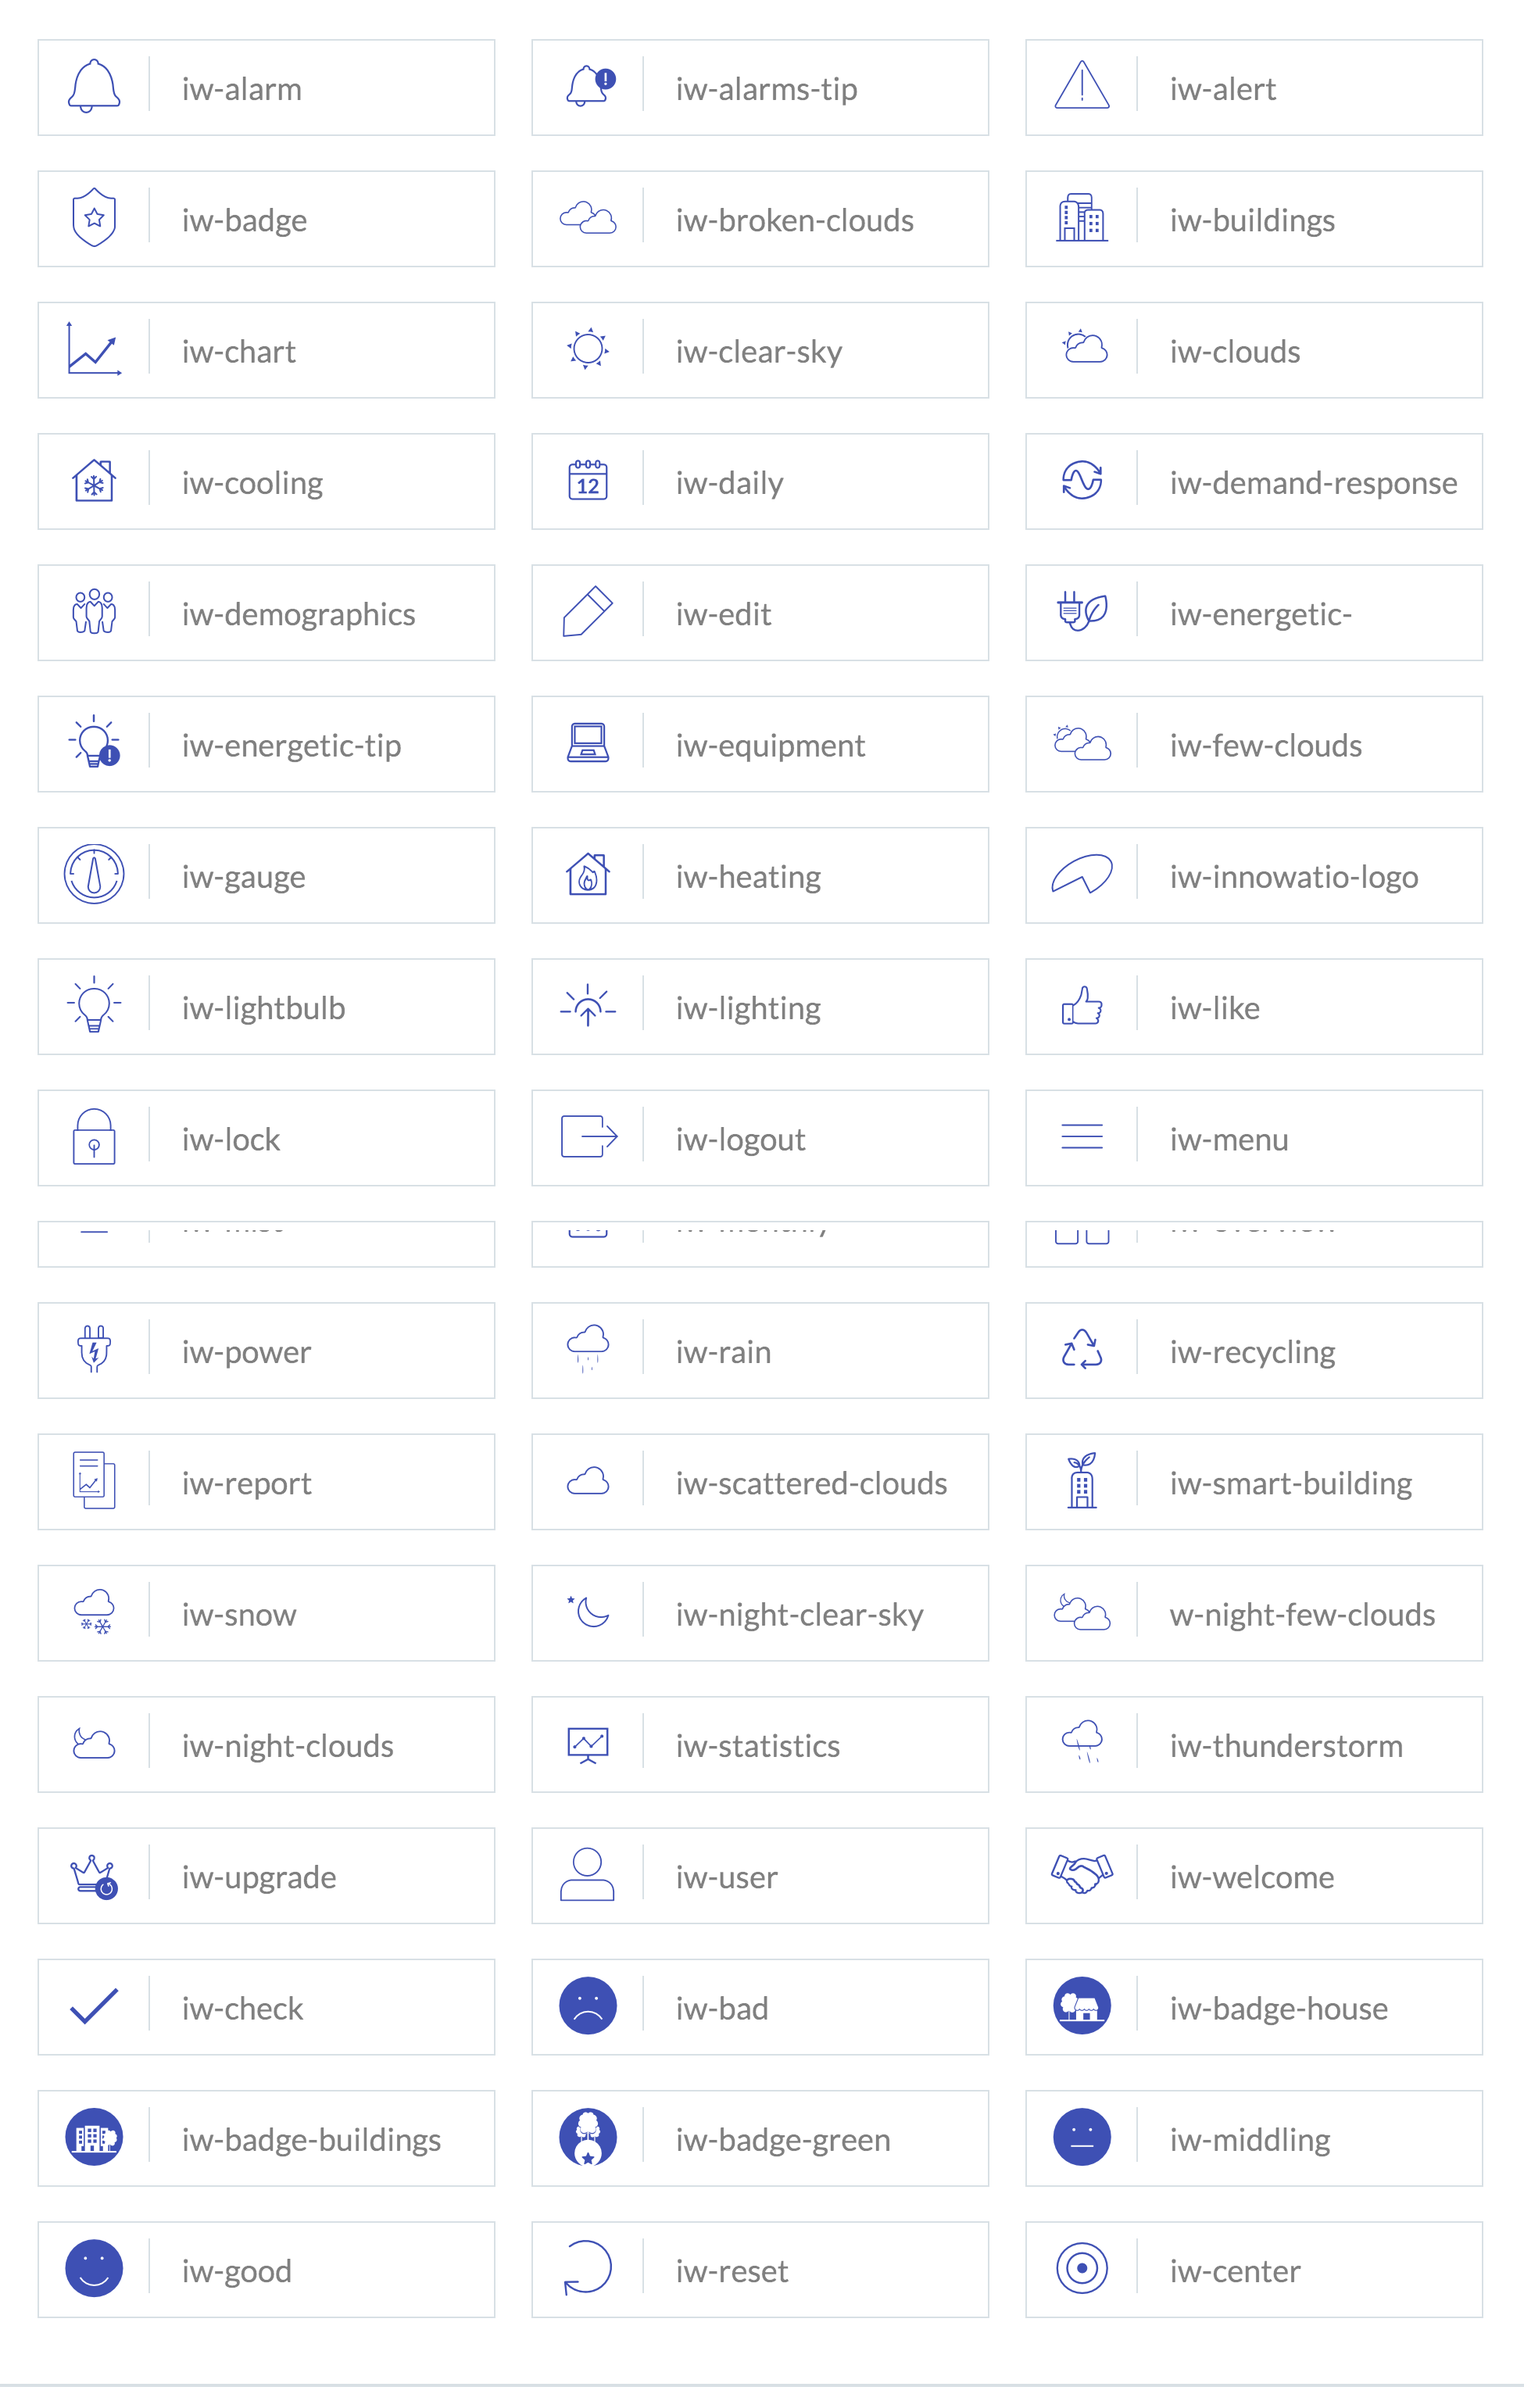
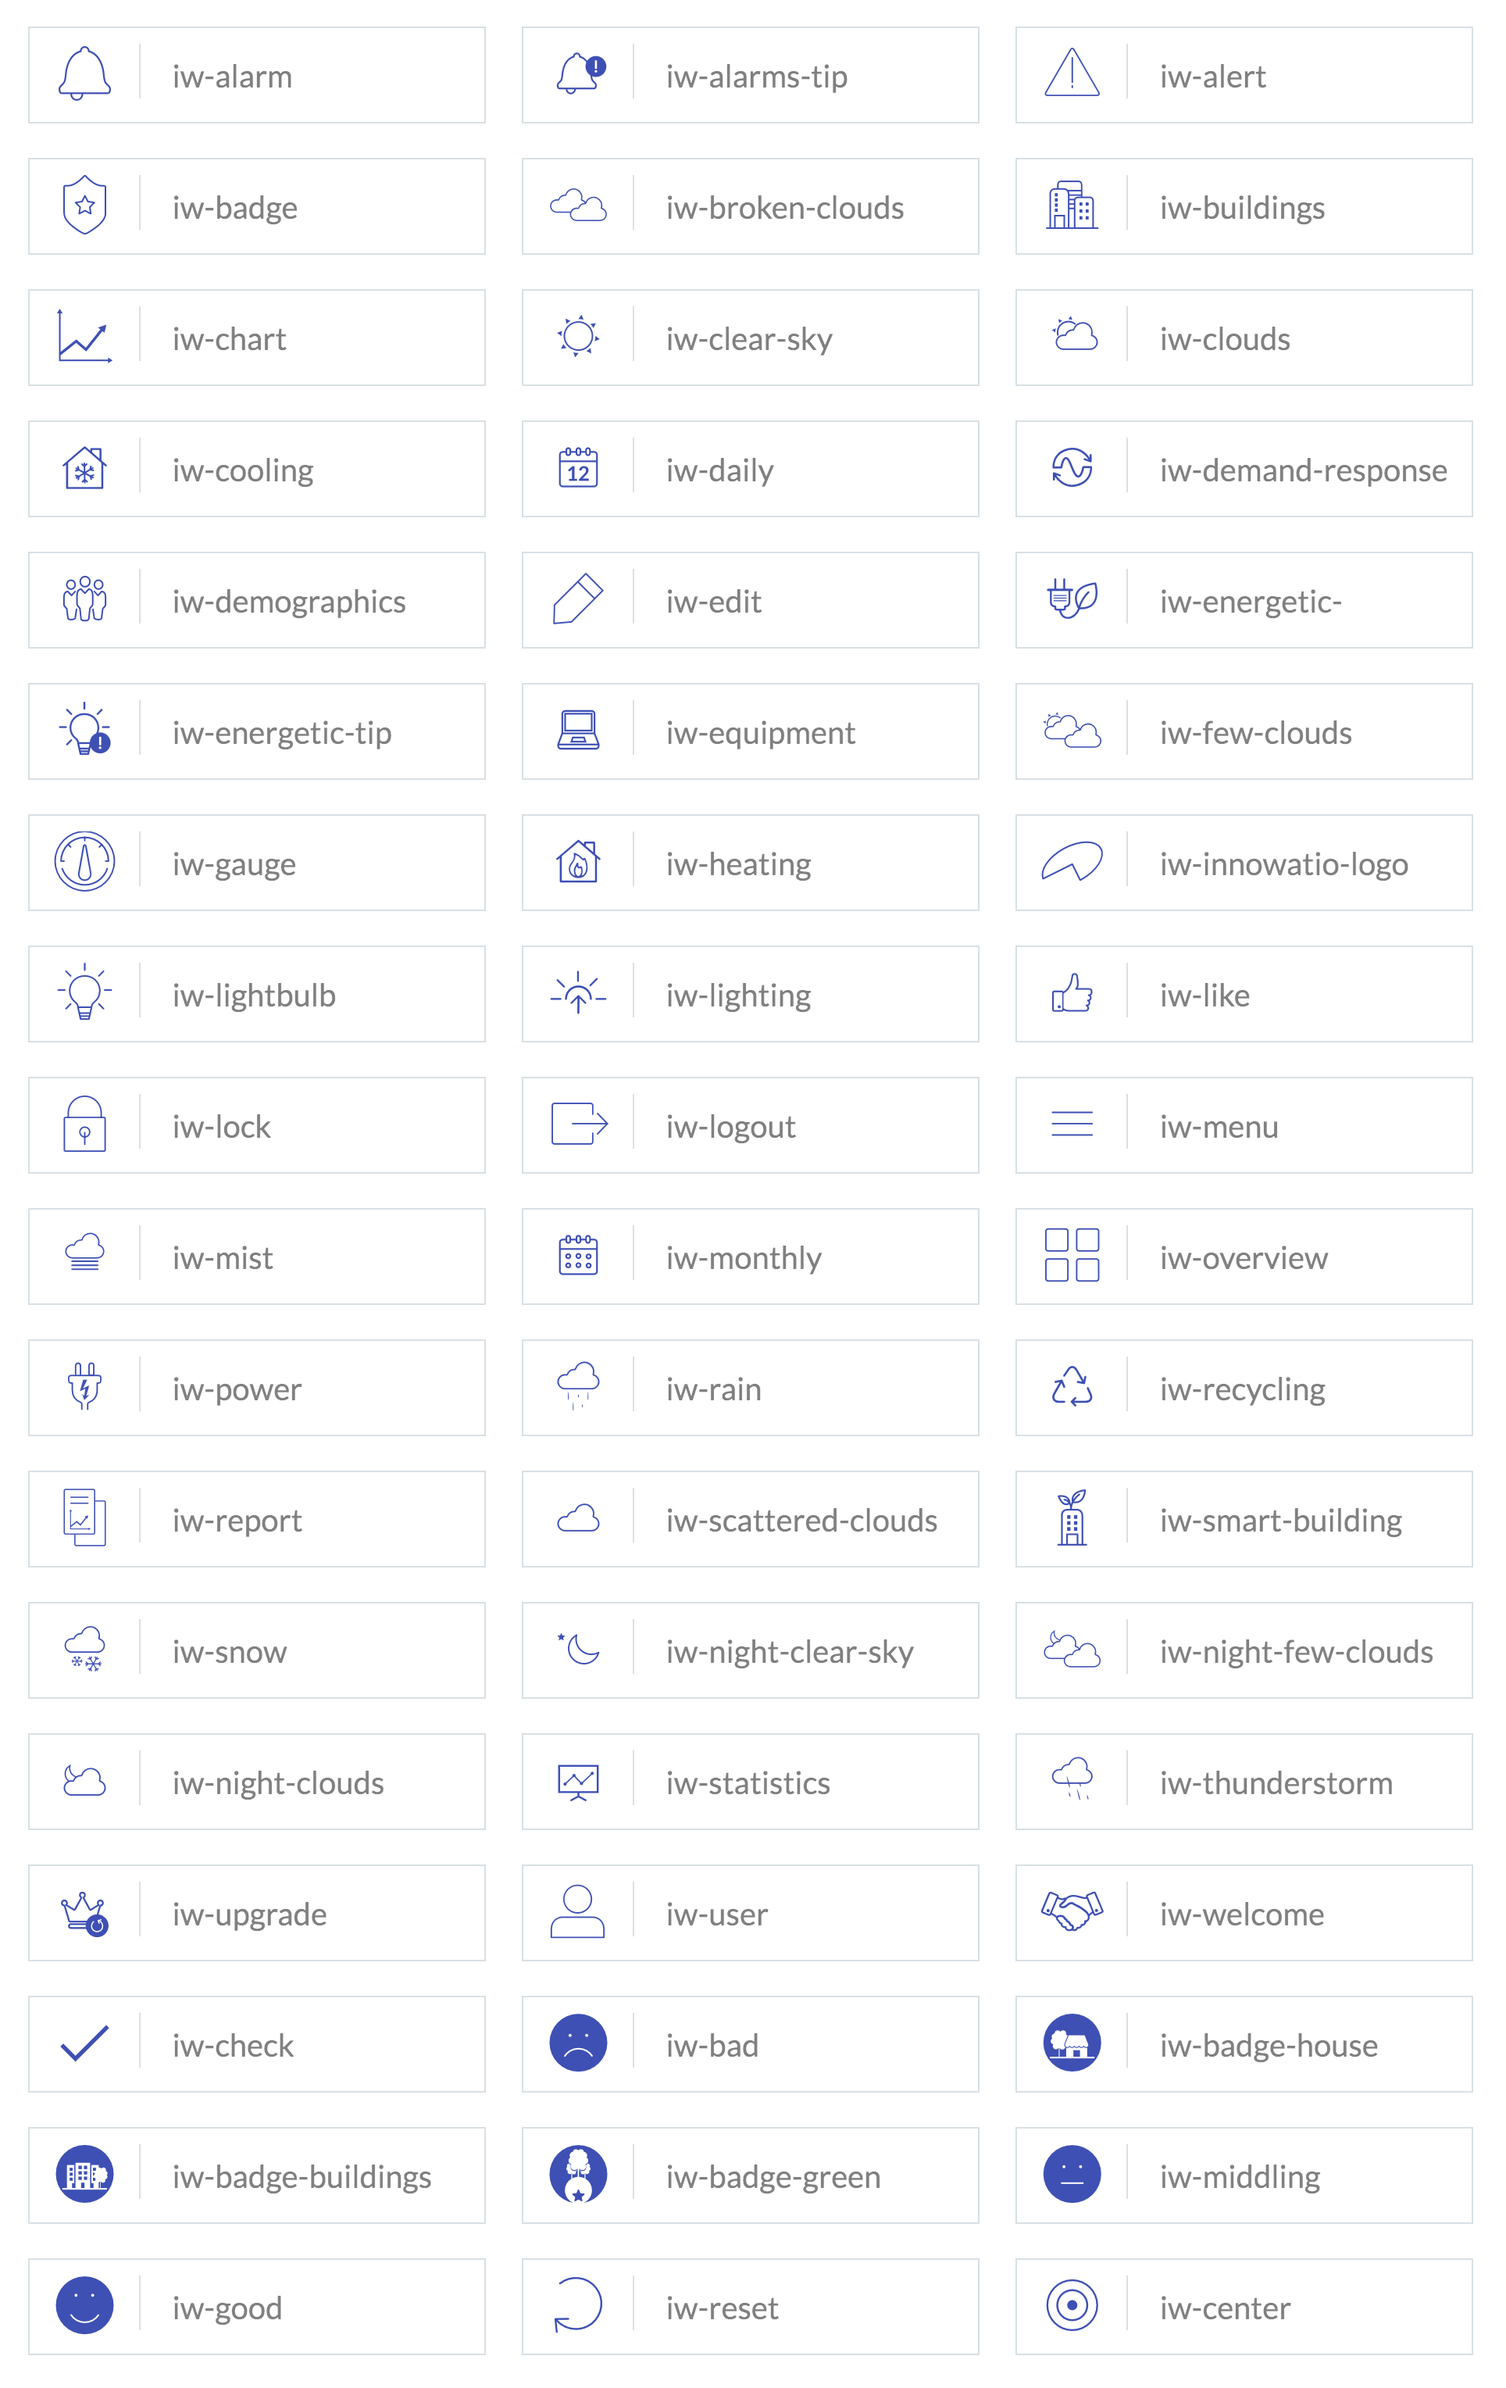
Updated references files.

diff --git a/icons-reference.html b/icons-reference.html
@@ -187,7 +187,7 @@
             </li>
             <li>
               <div class="icon icon-iw-night-few-clouds"></div>
-              <p>w-night-few-clouds</p>
+              <p>iw-night-few-clouds</p>
             </li>
             <li>
               <div class="icon icon-iw-night-clouds"></div>
